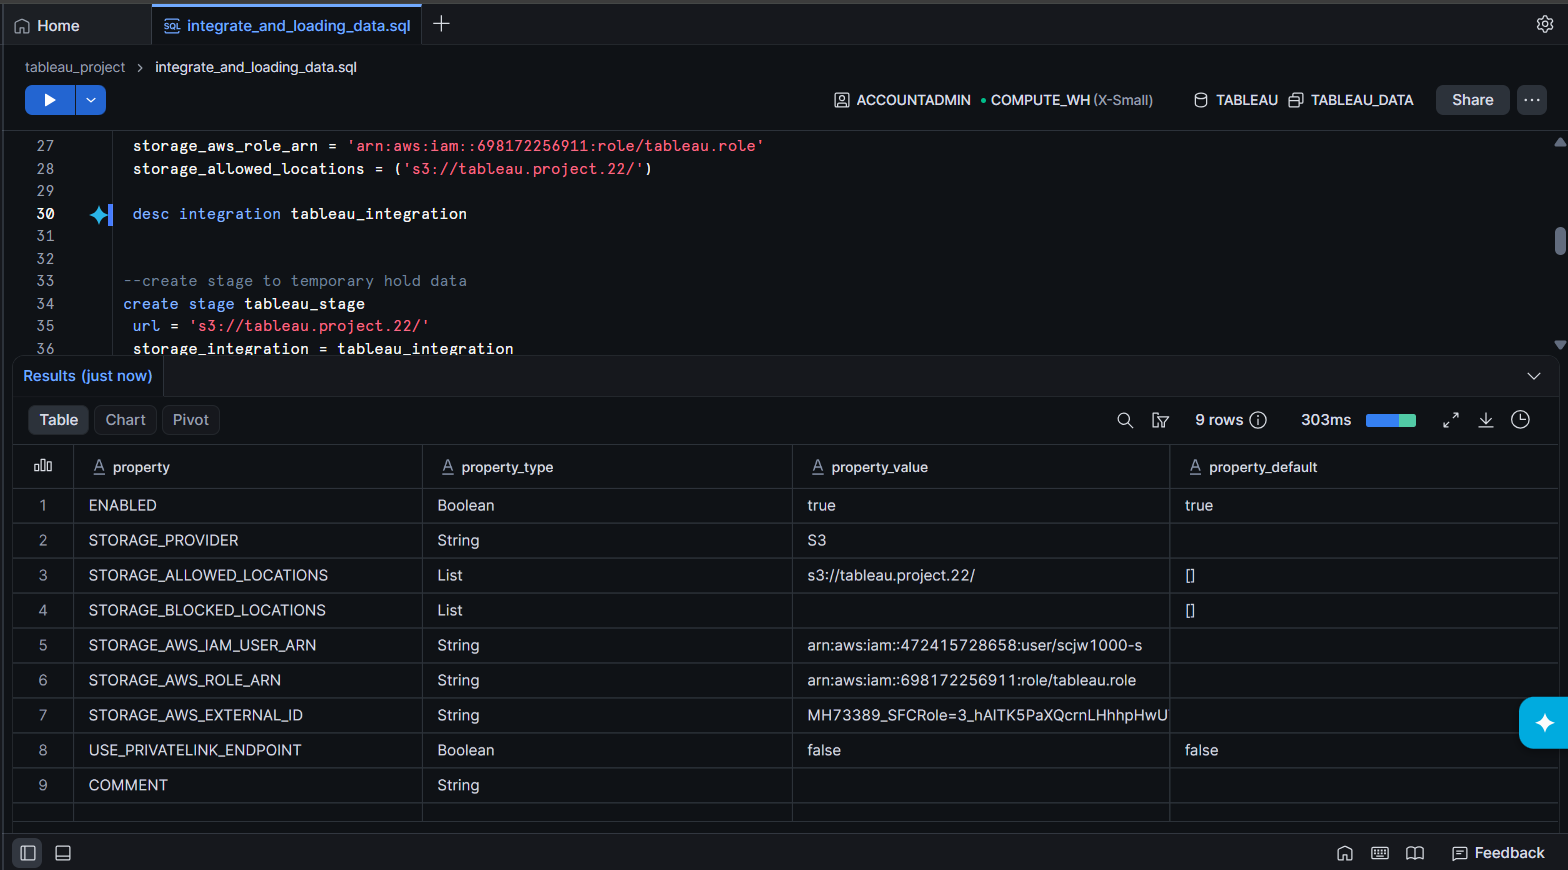
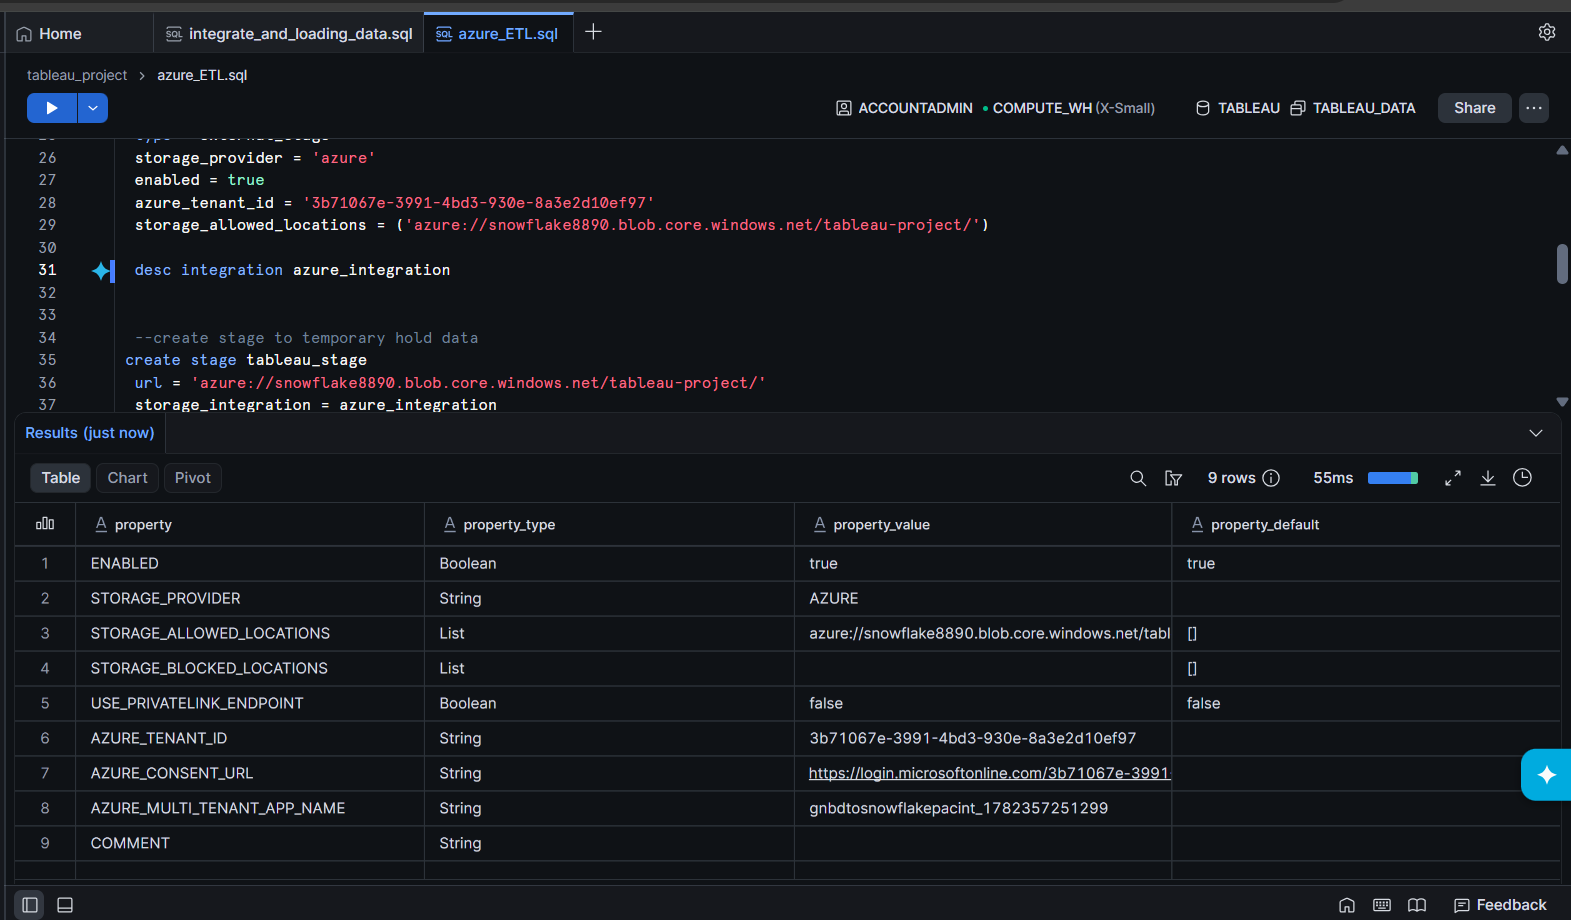
update readme

diff --git a/06_cloud_data_warehousing/aws_s3_snowflake_tableau/README.md b/06_cloud_data_warehousing/aws_s3_snowflake_tableau/README.md
@@ -1,13 +1,14 @@
 # Renewable Energy Analysis
-### AWS S3 • Snowflake • SQL • Tableau
 
-End-to-End Cloud Data Pipeline for ingesting, transforming, and visualizing renewable energy consumption data using AWS S3, Snowflake, SQL, and Tableau.
+### Azure Blob Storage • Snowflake • SQL • Tableau
+
+End-to-End Cloud Data Pipeline for ingesting, transforming, and visualizing renewable energy consumption data using **Azure Blob Storage**, **Snowflake**, **SQL**, and **Tableau**.
 
 ---
 
 ## Project Overview
 
-This project demonstrates a modern cloud analytics workflow where renewable energy consumption data is stored in AWS S3, loaded into Snowflake through Storage Integrations, transformed using SQL, and visualized in Tableau through an interactive dashboard.
+This project demonstrates a modern cloud analytics workflow where renewable energy consumption data is stored in **Azure Blob Storage**, securely loaded into **Snowflake** using **Azure Storage Integration**, transformed with SQL, and visualized through an interactive Tableau dashboard.
 
 ---
 
@@ -16,9 +17,7 @@ This project demonstrates a modern cloud analytics workflow where renewable ener
 ```text
 Renewable Energy Dataset
         ↓
-AWS S3 Bucket
-        ↓
-IAM Role & Trust Policy
+Azure Blob Storage
         ↓
 Snowflake Storage Integration
         ↓
@@ -31,30 +30,32 @@ SQL Validation & Transformation
 Tableau Dashboard
 ```
 
-### Implementation Steps
+---
 
-- Uploaded renewable energy dataset to AWS S3
-- Configured IAM Role and Trust Policy
-- Created Snowflake Storage Integration
-- Created External Stage for secure data ingestion
-- Loaded data into Snowflake tables
-- Performed SQL-based validation and transformation
-- Connected Snowflake directly to Tableau
-- Developed an interactive Renewable Energy Dashboard
+## Implementation Steps
+
+* Uploaded the renewable energy dataset to Azure Blob Storage.
+* Created an Azure Storage Account and Blob Container.
+* Configured Azure Storage Integration in Snowflake.
+* Created an External Stage pointing to the Azure Blob Container.
+* Loaded data from Azure Blob Storage into Snowflake tables.
+* Validated and transformed data using SQL.
+* Connected Snowflake directly to Tableau.
+* Built an interactive Renewable Energy Dashboard in Tableau.
 
 ---
 
 ## Project Preview
 
-### AWS ↔ Snowflake Integration
+### Azure Blob Storage
 
-IAM Role and Trust Policy used for secure communication between AWS S3 and Snowflake.
+Dataset stored securely inside an Azure Blob Storage container before ingestion into Snowflake.
 
-![AWS Integration](screenshots/aws_integration.png)
+![Azure Integration](screenshots/azure_integration.png)
 
 ### Snowflake Storage Integration
 
-Storage Integration validation and stage configuration inside Snowflake.
+Storage Integration and External Stage configured to securely access Azure Blob Storage.
 
 ![Storage Integration](screenshots/sql_storage_integration.png)
 
@@ -70,42 +71,53 @@ Interactive Tableau dashboard built on transformed Snowflake data.
 
 Explore the interactive Tableau dashboard online:
 
-🔗 **Tableau Public:**  
-N
+🔗 **Tableau Public:** *(Add your Tableau Public link here)*
 
-📁 Tableau Workbook Included: `energy_consumption_dashboard.twbx`
+📁 **Tableau Workbook Included:** `energy_consumption_dashboard.twbx`
 
 ---
 
 ## Skills Demonstrated
 
-- AWS S3 & IAM
-- Snowflake Storage Integration
-- Cloud Data Warehousing
-- SQL Data Transformation
-- Data Validation
-- Tableau Dashboard Development
-- End-to-End Analytics Workflow
+* Azure Blob Storage
+* Azure Storage Account
+* Snowflake Storage Integration
+* External Stage Configuration
+* Cloud Data Warehousing
+* SQL Data Transformation
+* Data Validation
+* Tableau Dashboard Development
+* End-to-End Cloud Analytics Pipeline
 
 ---
 
 ## Repository Structure
 
 ```text
-aws_s3_snowflake_tableau/
+azure_blob_snowflake_tableau/
 
 ├── dataset/
 │   └── renewable_energy_usage_sampled.csv
 │
 ├── screenshots/
-│   ├── aws_integration.png
+│   ├── azure_integration.png
 │   ├── sql_storage_integration.png
 │   └── dashboard.png
 │
-├── integrate_and_load_data.sql
+├── azure_ETL.sql
 ├── energy_consumption_dashboard.twbx
 └── README.md
 ```
+
+---
+
+## Technologies Used
+
+* Microsoft Azure Blob Storage
+* Snowflake
+* SQL
+* Tableau Desktop
+* Tableau Public
 
 ---
 
@@ -115,4 +127,4 @@ aws_s3_snowflake_tableau/
 
 B.Tech CSE | Aspiring Data Analyst
 
-SQL • Tableau • Power BI • Python • Snowflake • AWS
+**Skills:** SQL • Tableau • Power BI • Python • Snowflake • Azure